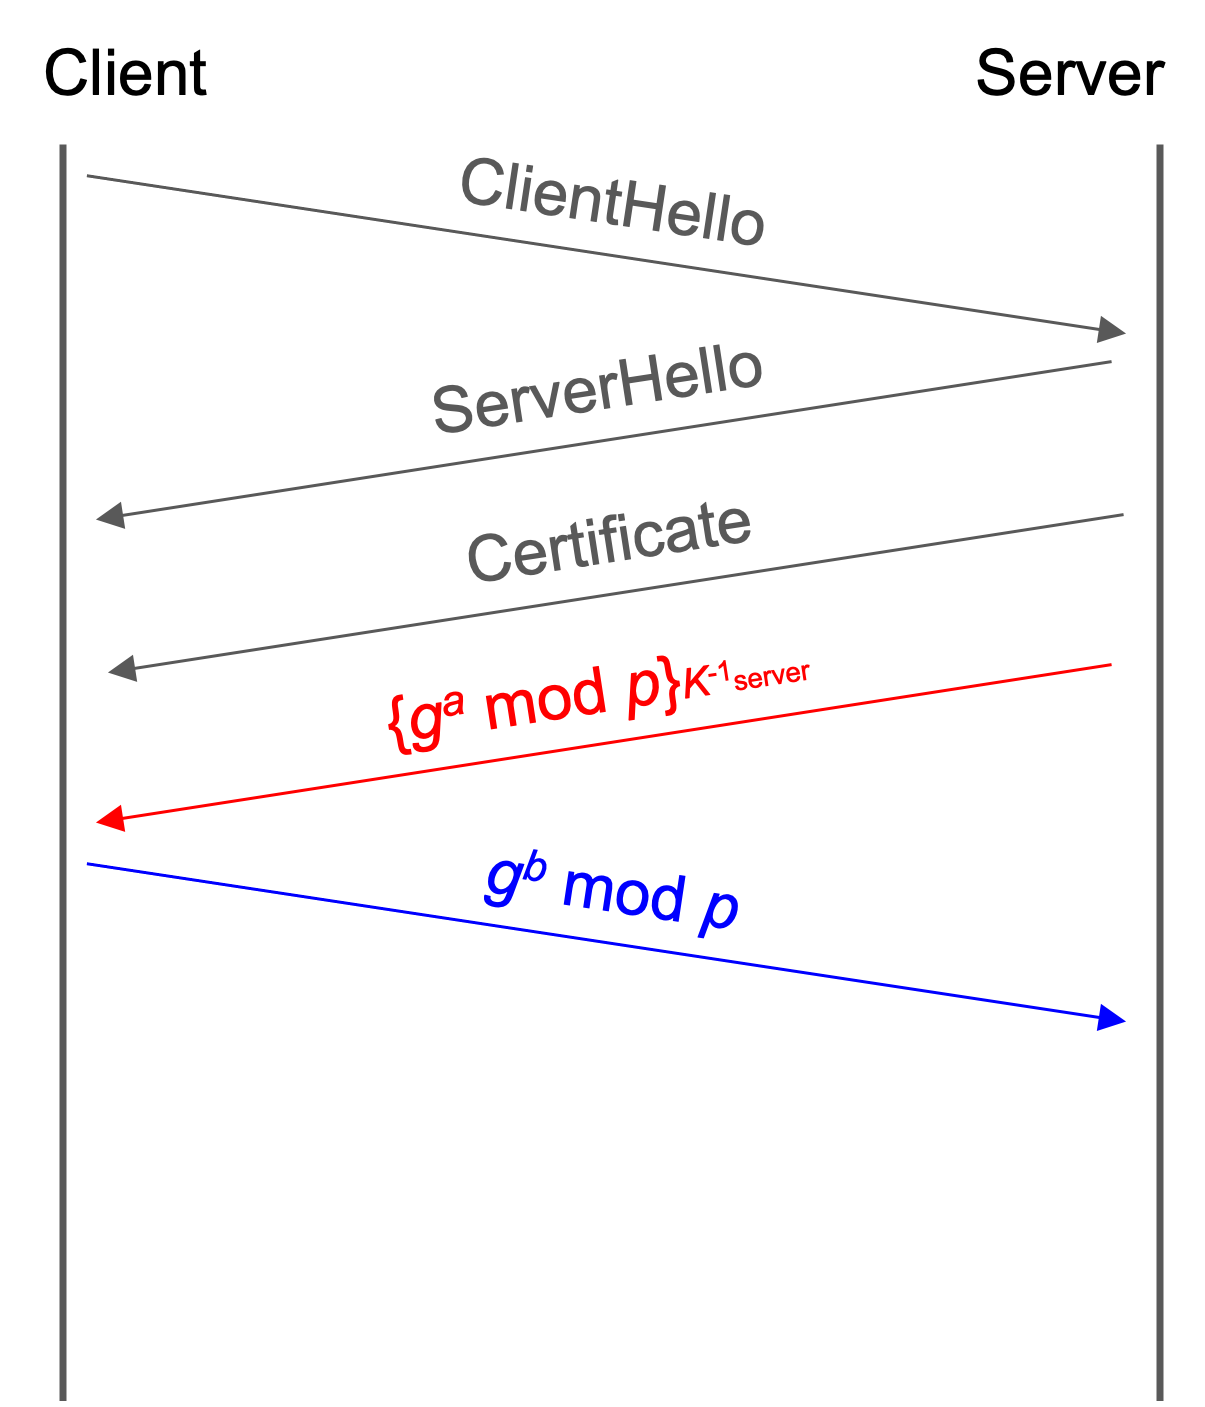
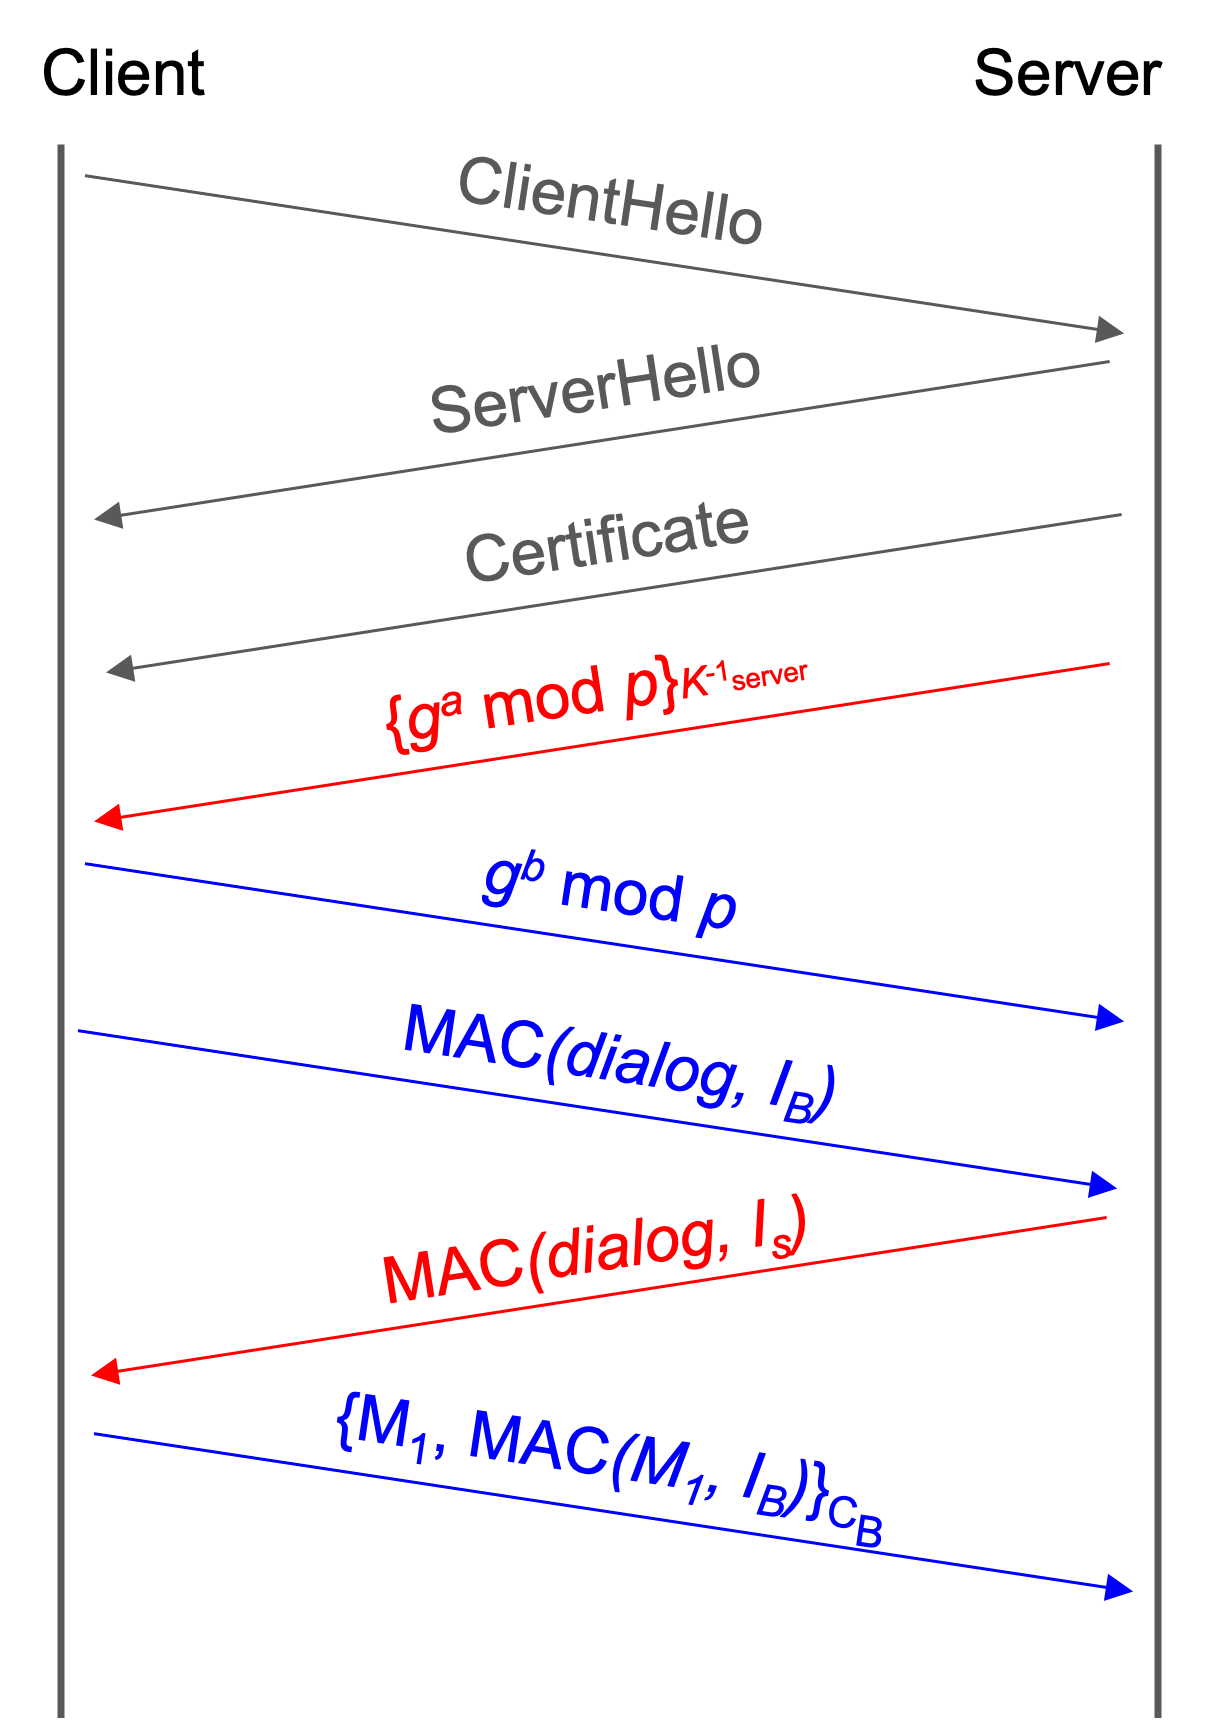
[tls] update to make images more informative (#76)
* [tls] update to make images more informative

* add strings to describe what each is discussing

diff --git a/network/tls.md b/network/tls.md
@@ -30,7 +30,7 @@ Sanity check: After the first two messages, can the client be certain that it is
 
 The next step in TLS is to generate a random **Premaster Secret** (**PS**) known to only the client and the server. The PS should be generated so that no eavesdropper can determine the PS based on the data sent over the connection, and no one except the client and the legitimate server have enough information to derive the PS.
 
-The first way to derive a shared PS is to encrypt it with RSA, shown in the last (blue) arrow here:
+The first way to derive a shared PS is to encrypt it with RSA, shown in the last (blue) arrow here that depicts $$\{PS\}_{K_{server}}$$:
 
 <img src="/assets/images/network/tls/tls2-rsa.png" alt="Diagram of the second part of the TLS handshake using RSA, from the server certificate presentation to the exchange of MACs" width="40%">
 
@@ -40,7 +40,7 @@ Sanity check: How can the client be sure it's using the correct public key?[^2]
 
 We can verify that this method satisfies all the properties of a PS. Because it is encrypted when sent across the channel, no eavesdropper can decrypt and figure out its value. Also, only the legitimate server will be able to decrypt the PS (using its secret key), so only the client and the legitimate server will know the value of the PS.
 
-The second way to generate a PS is to use Diffie-Hellman key exchange, shown in the fourth (red) and fifth (blue) arrows here:
+The second way to generate a PS is to use Diffie-Hellman key exchange, shown in the fourth (red) and fifth (blue) arrows here that depict $$\{g^a \bmod p\}_{K^{-1}_{server}}$$ and $$g^b \bmod p$$ respectively:
 
 <img src="/assets/images/network/tls/tls2-dh.png" alt="Diagram of the second part of the TLS handshake using Diffie-Hellman, from the server certificate presentation to the exchange of MACs" width="40%">
 
